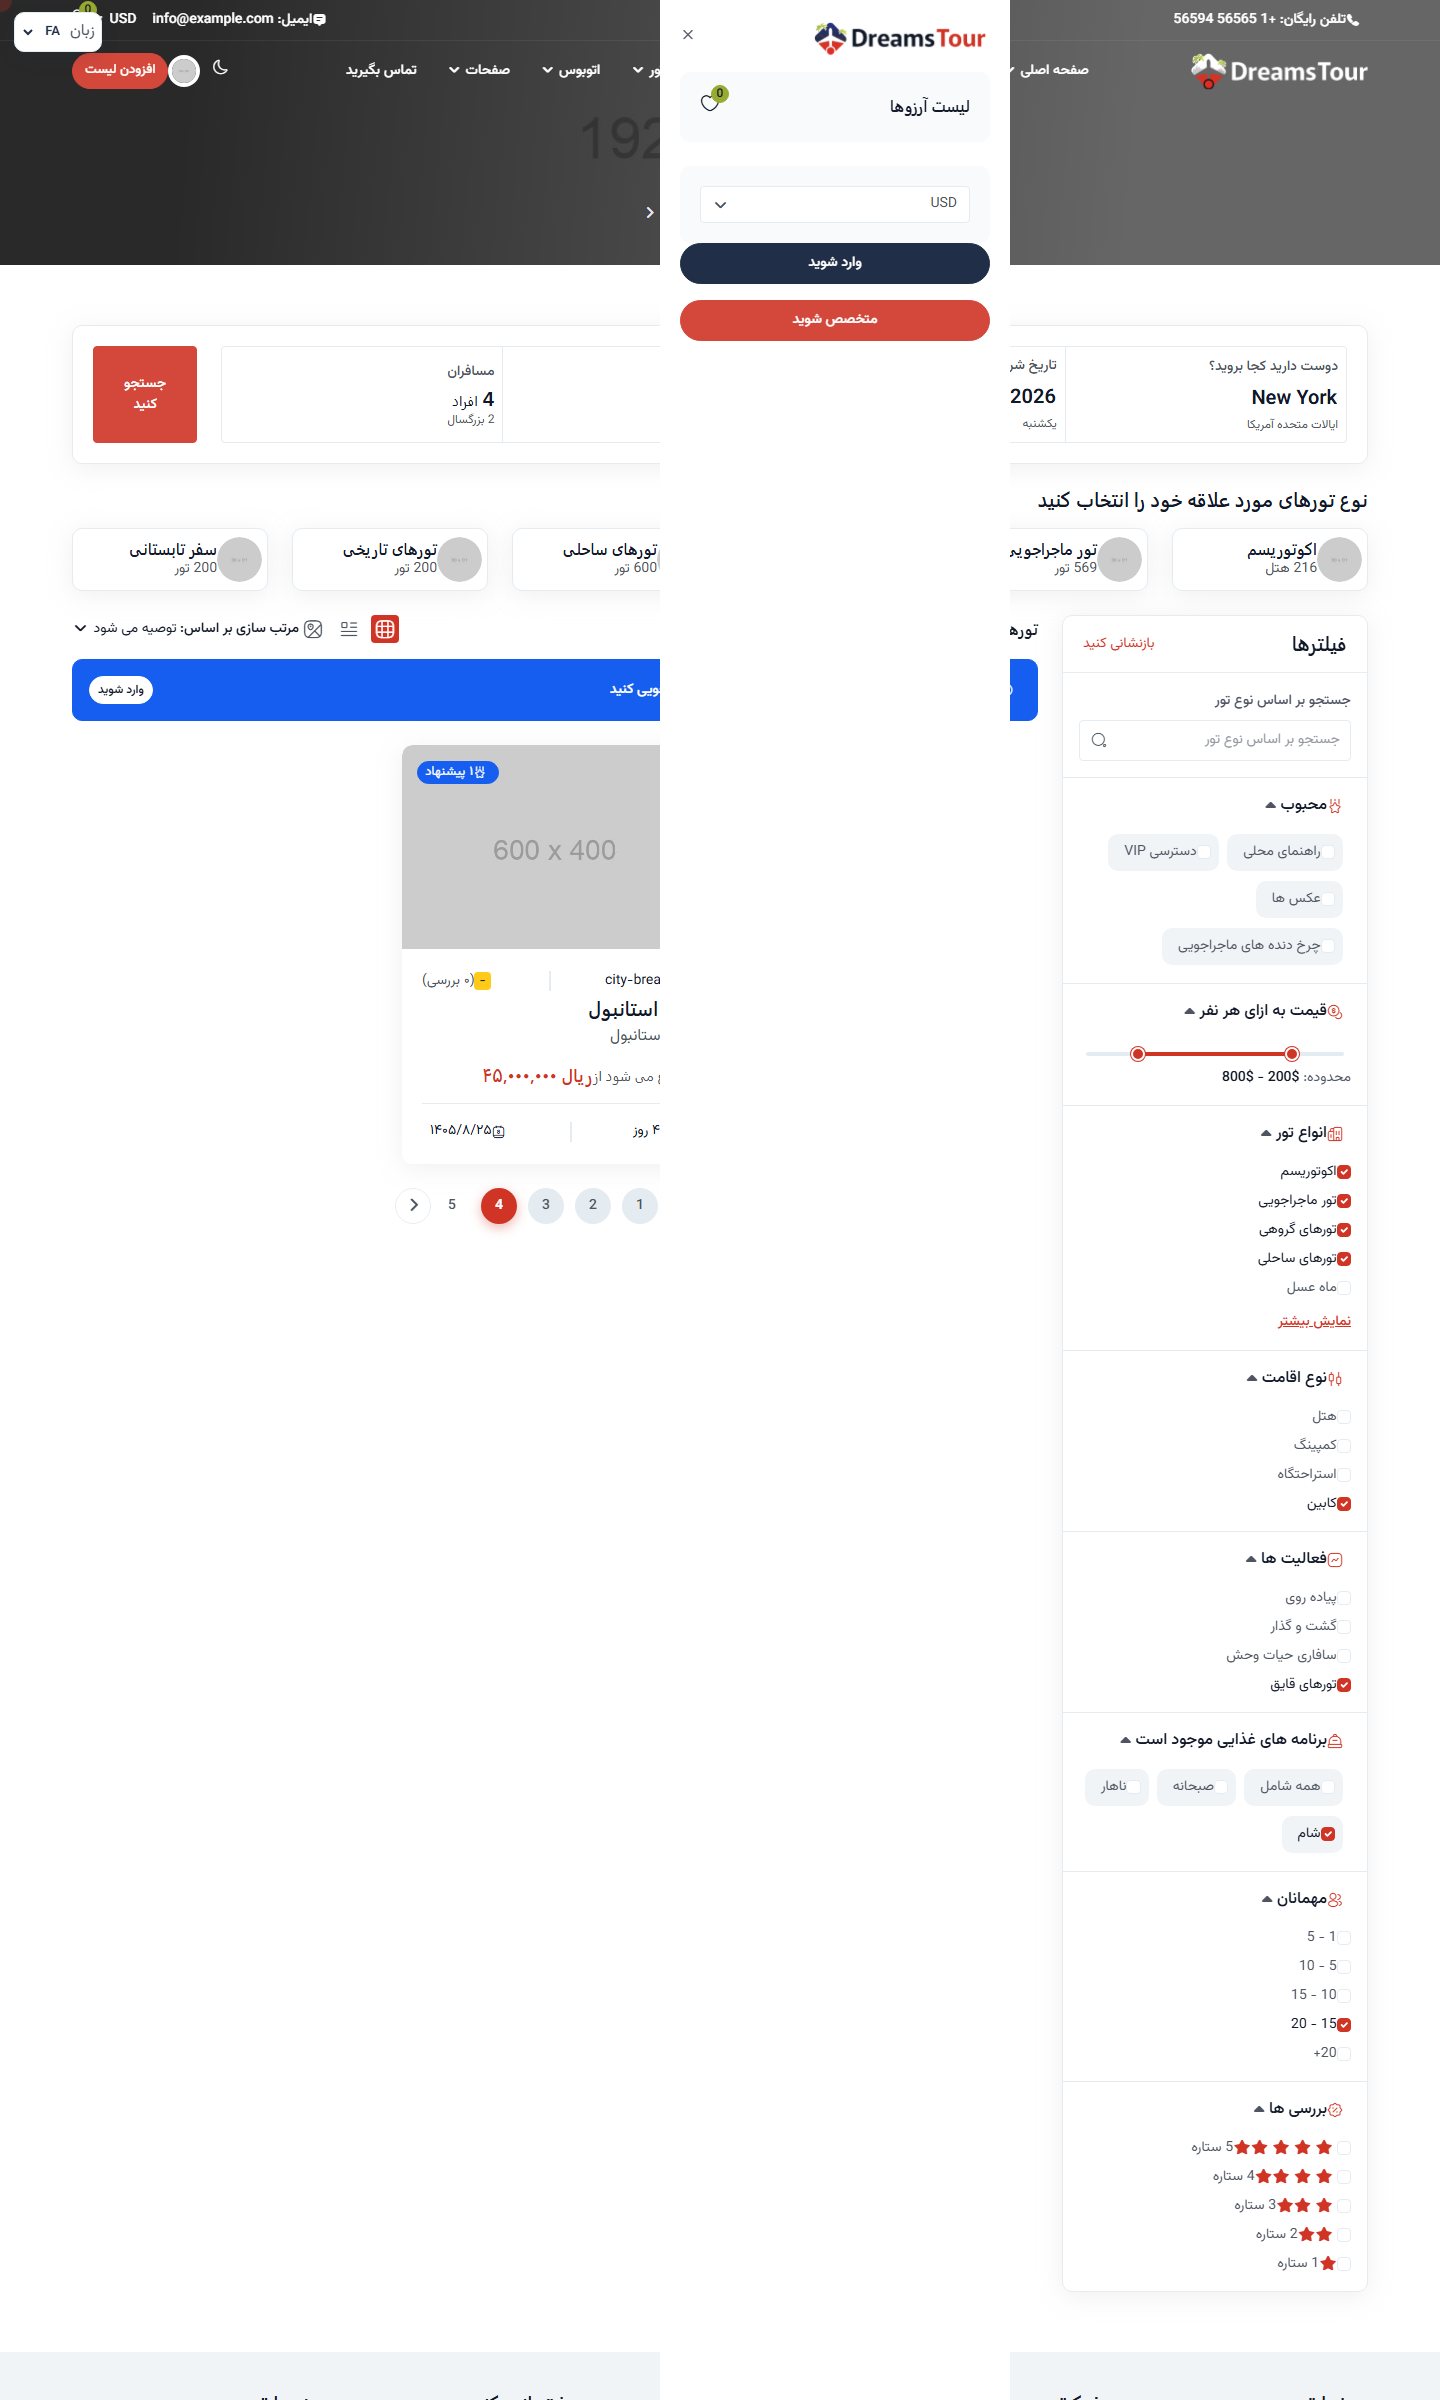
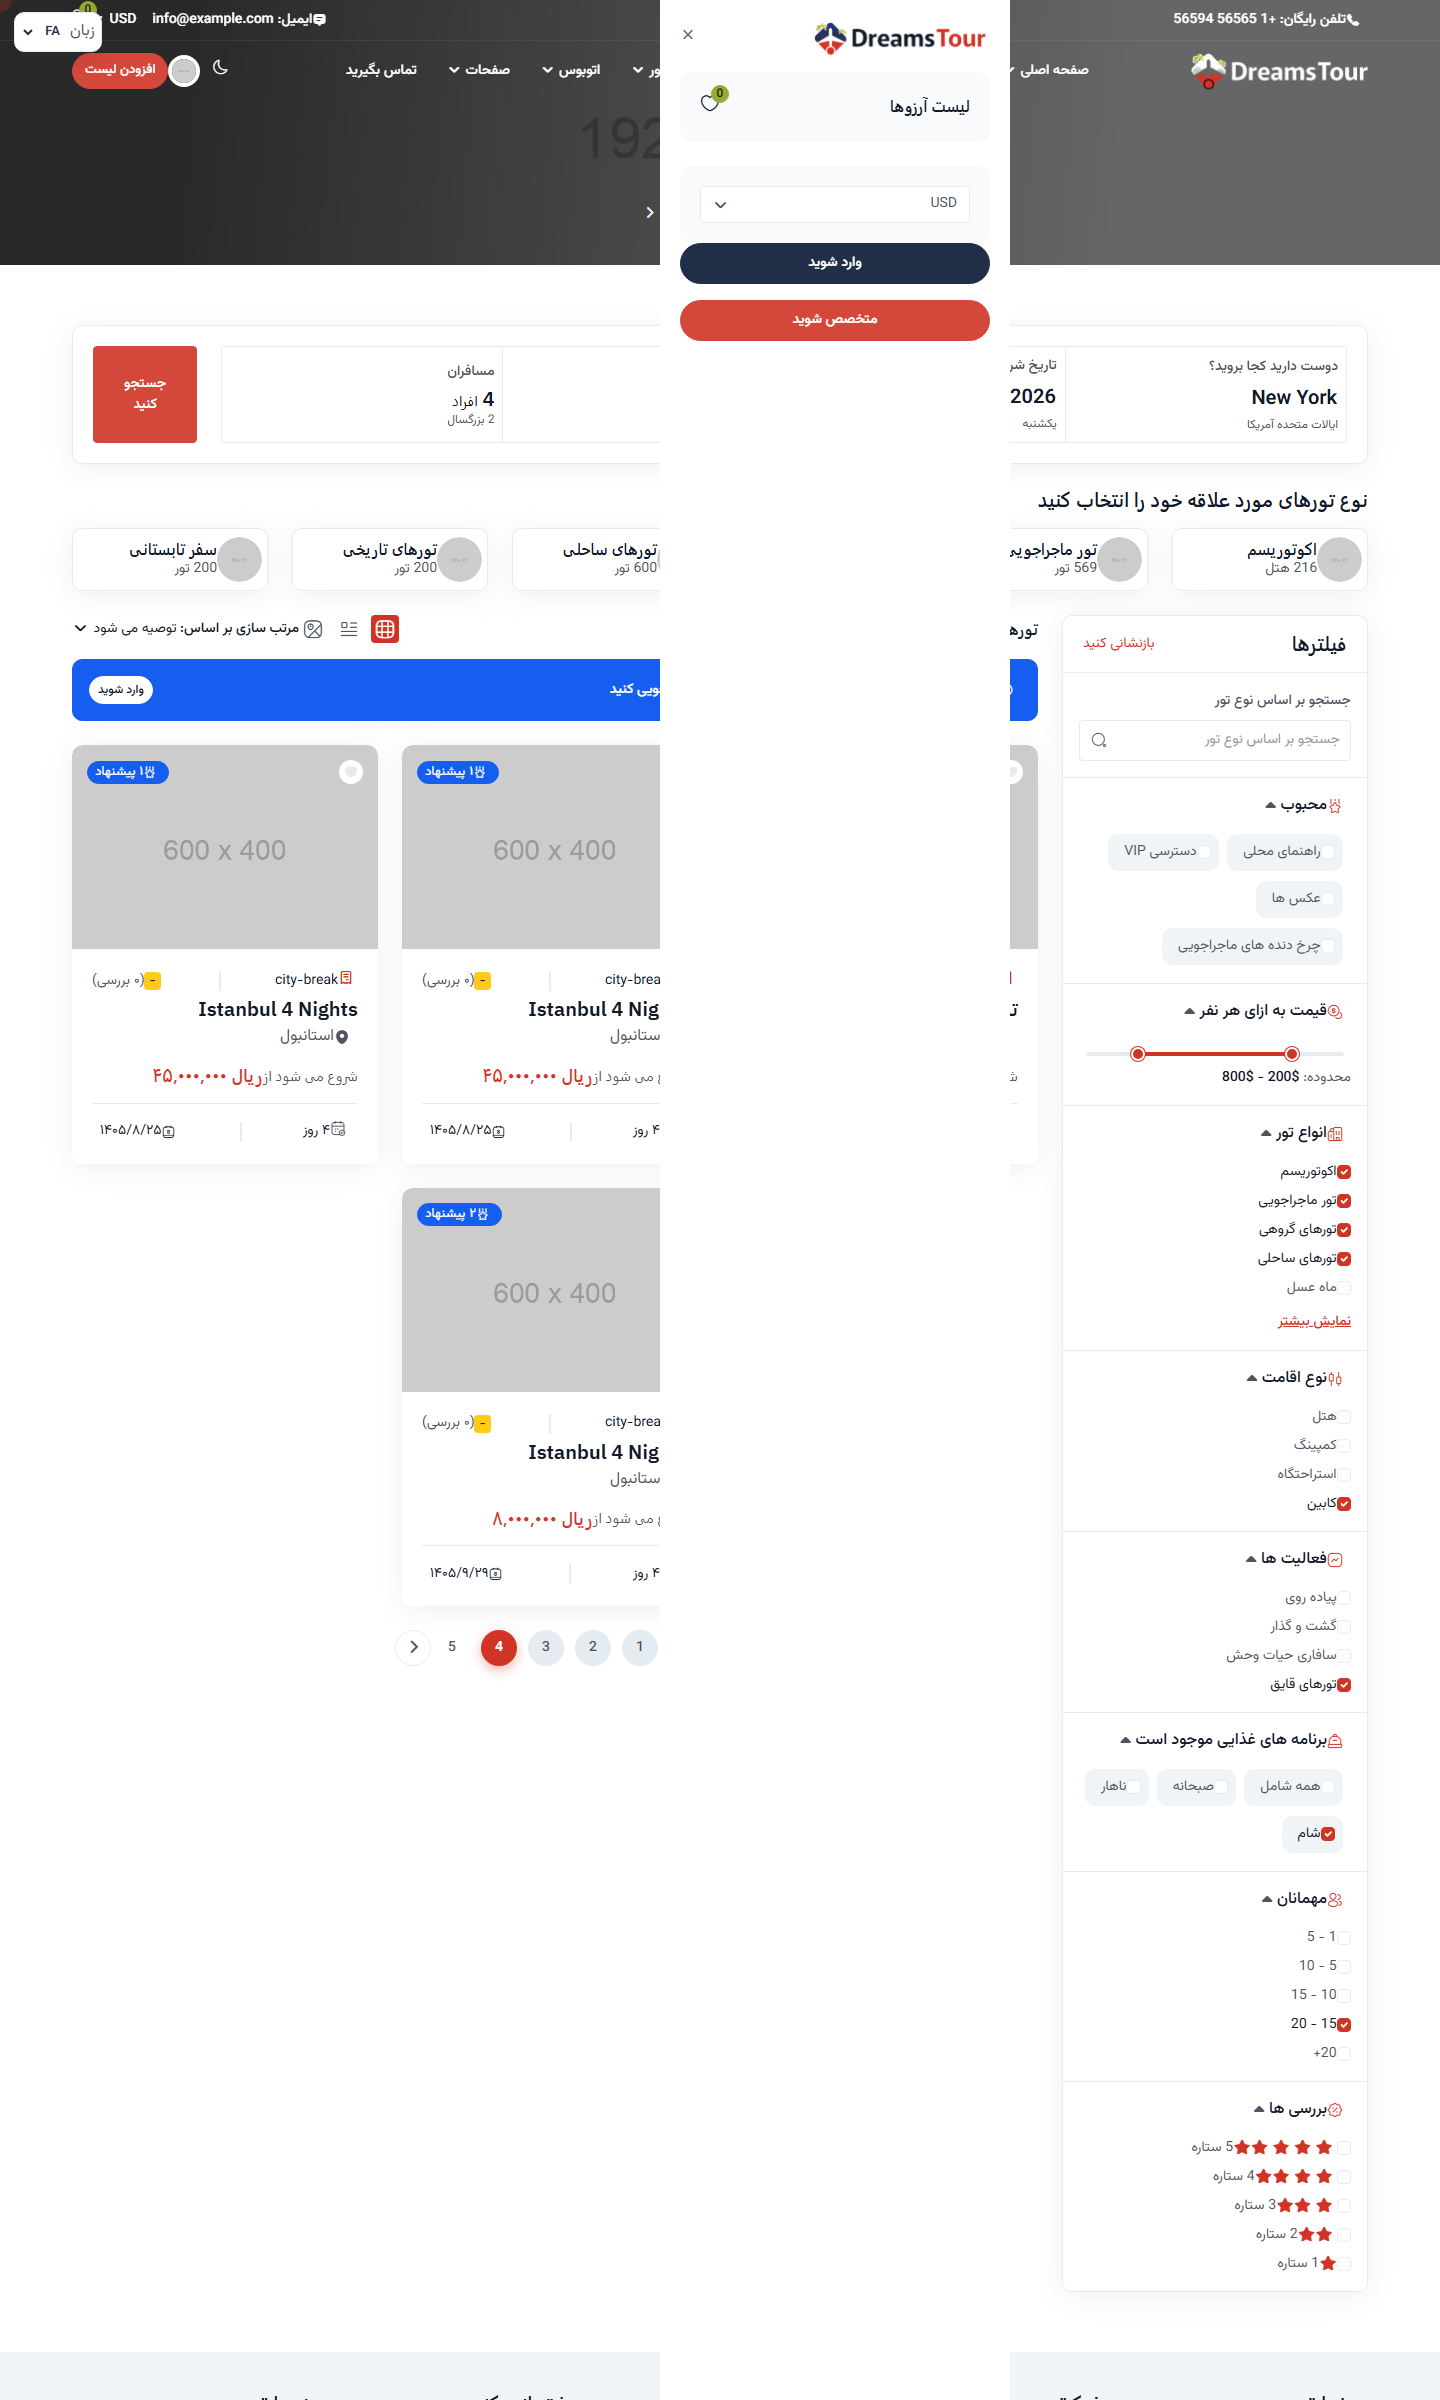
fix(gate9.1): fallback corrupted localized titles and restore tour card visibility

diff --git a/src/Modules/Marketplace/Hani.Modules.Marketplace.Application/Queries/SearchProducts/SearchProductsQueryHandler.cs b/src/Modules/Marketplace/Hani.Modules.Marketplace.Application/Queries/SearchProducts/SearchProductsQueryHandler.cs
@@ -362,11 +362,25 @@ internal sealed class SearchProductsQueryHandler(
         IReadOnlyDictionary<string, string> values,
         string locale,
         string defaultLanguage)
-        => values.TryGetValue(locale, out var value)
+    {
+        var preferred = values.TryGetValue(locale, out var value)
             ? value
             : values.TryGetValue(defaultLanguage, out var fallback)
                 ? fallback
                 : values.Values.FirstOrDefault() ?? string.Empty;
+
+        if (!IsCorrupted(preferred))
+        {
+            return preferred;
+        }
+
+        return values.Values.FirstOrDefault(candidate => !IsCorrupted(candidate)) ?? preferred;
+    }
+
+    private static bool IsCorrupted(string value)
+        => value.Contains('\uFFFD') ||
+           value.Contains("???", StringComparison.Ordinal) ||
+           value.Count(character => character == '?') >= 3;
 
     private sealed record SearchCandidate(
         ProductSearchItemDto Dto,
